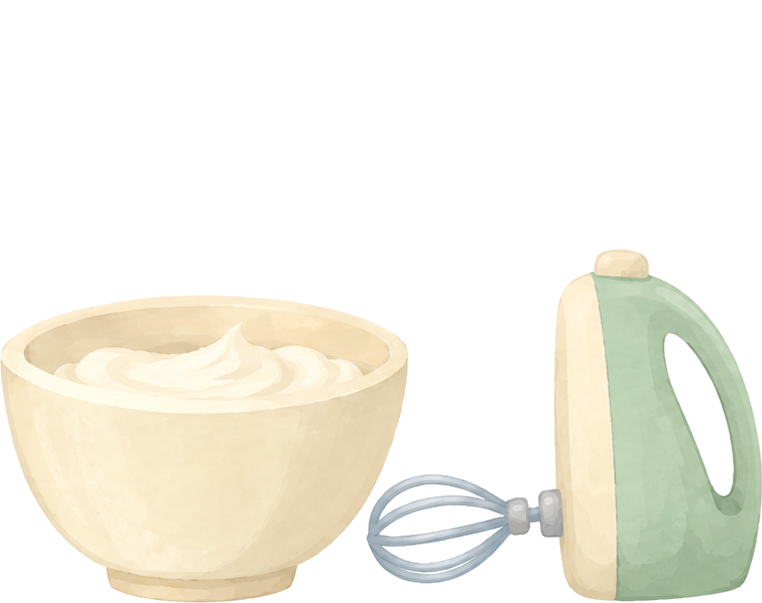
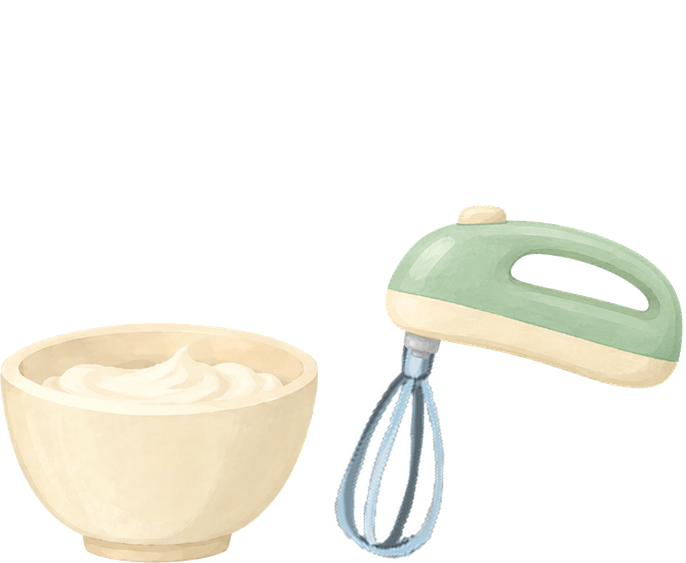
Tutorial pointer: Gemini's hand cookie with the gold glaze glow (owner's pick 9, 21 Nov); gift card words by the owner; lean handheld mixer with the kitchen's whisk as its blade; thinking dots sized and centred from the bubble's inside; report

diff --git a/Docs/tools/report_page/index.html b/Docs/tools/report_page/index.html
@@ -74,13 +74,13 @@ h3 small{font-weight:600;color:var(--soft);font-size:13px;margin-left:6px}
 <h2 id="next"><span class="n">1</span>Next</h2>
 <div class="grid">
 <div class="who p1"><h3>You</h3>
-<p><b>Pick a pointer cookie</b> (Current, round 2) and <b>the chapter 2 ideas you want</b> (Q&amp;A).</p>
-<p><b>Look at</b> the gift's new order and the handheld mixer (Current). The gift card's words are mine; change them if you like.</p>
-<p><b>Test build:</b> Xcode still has no Apple account sign-in. Open <b>Xcode, Settings, Accounts</b>, sign in (I cannot type your password) and tell me; I then build with today's changes and upload.</p>
+<p><b>Test build 2026.11.21 (0) is being made now.</b> If the upload is refused again, it needs your sign-in in Xcode (Settings, Accounts); I will say so here.</p>
+<p><b>Look at</b> the thinking dots and the mixer (Current); both are in the build as shown.</p>
+<p><b>Still open:</b> the chapter 2 ideas (Q&amp;A).</p>
 </div>
 <div class="who p2"><h3>Me</h3>
-<p>Done today: the chapter 2 gift, handheld mixer, tray shadow (approved, in), kitchen without pauses, faster blender, player analysis, the ad check for today's US player.</p>
-<p><b>Tomorrow (22 Nov):</b> Apple's sales for 21 Nov (a Remove Ads sale?), and whether that player came back.</p>
+<p>In the build today: chapter 2 gift, hand pointer with its glow, tray shadow, lean handheld mixer, kitchen without pauses, faster blender, smaller thinking dots.</p>
+<p><b>Tomorrow (22 Nov):</b> Apple's sales for 21 Nov (a Remove Ads sale?), and whether today's US player came back.</p>
 </div>
 </div>
 
@@ -113,14 +113,6 @@ h3 small{font-weight:600;color:var(--soft);font-size:13px;margin-left:6px}
 <li><b>Seen in today's numbers:</b> Unity counted 4 ads shown, the game logged none as finished. At least two were players who closed the game during the ad right after day 1.</li>
 </ul>
 <ul class="checks"><li><label><input type="checkbox" data-id="qa.skipcount.seen"> Seen</label></li></ul>
-</div>
-<div class="q"><h3>Does the time of my test play match? Where is today's data from, when App Store Connect has none yet? (21 Nov)</h3>
-<ul>
-<li><b>Yes, it matches.</b> Your TestFlight play is in the test data: today 12:09 to 12:16, days 13 and 14, one star each, then the shop. It is kept apart from the players and never counted.</li>
-<li><b>So the 11:29 to 12:01 play was not you,</b> and yes, it is the player I asked you about. It was <b>today, 21 Nov</b>. "2026.11.20" in that line is the game's version number (the release), not the date. A real new player in the US on the App Store copy: all 14 days in 32 minutes, 3 stars on every day, nearly everything bought. They are in the numbers now (Analysis).</li>
-<li><b>Where today's data comes from:</b> Unity Analytics, not App Store Connect. The game itself sends its events (tutorial steps, days, stars, purchases, ads) to Unity within about a minute. App Store copies go to "production", TestFlight and my editor to "development". Apple's own numbers (downloads) come a day later; they end on 20 Nov.</li>
-</ul>
-<ul class="checks"><li><label><input type="checkbox" data-id="qa.today.seen"> Seen</label></li></ul>
 </div>
 <div class="q"><h3>Chapter 2 is much harder: ways to tune it (21 Nov)</h3>
 <ul>
@@ -175,50 +167,46 @@ h3 small{font-weight:600;color:var(--soft);font-size:13px;margin-left:6px}
 <ul class="checks"><li><label><input type="checkbox" data-id="qa.ktimes2.seen"> Seen</label></li></ul>
 </div>
 <h2 id="current"><span class="n">3</span>Current</h2>
-<p class="sub" style="margin:0 0 8px">Made 21 November; not in a test build yet.</p>
+<p class="sub" style="margin:0 0 8px">Made 21 November; all of it is in the new test build.</p>
 <div class="card">
-<p style="margin-top:0"><b>Chapter 2's gift, in your order: the fourth flower flies to the customer.</b></p>
-<figure><img src="gift_flower.jpg" alt="Six views of the chapter 2 tutorial. The customer has ordered and three pink flowers stand over the bubble. The screen dims and a paper card titled A gift for you shows one big flower, the words One more flower of patience for every beach customer, and a Let's go cookie button. The card is gone and the flower arrives at the right end of the row. Four flowers over the bubble. The tutorial goes on with its captions, four flowers shown"><figcaption>Table, chapter 2 tutorial: three flowers, the gift card, the flower flying over, four flowers, the tutorial going on.</figcaption></figure>
+<p style="margin-top:0"><b>Thinking dots: smaller, and centred in every bubble.</b></p>
+<figure><img src="think_dots.jpg" alt="Four order bubbles while the customer thinks, two narrow ones and two large ones, each with three small brown dots in the middle of the bubble, about half as wide as the bubble's inside"><figcaption>Table, chapter 1: the dots in the narrow bubble (top) and in the large bubble (bottom).</figcaption></figure>
 <ul>
-<li>The tutorial starts as before. The customer walks up and orders with three flowers; a second later the game holds and the card comes up with the flower.</li>
-<li>On "Let's go" the card goes, the three flowers move over, and the gift flower flies onto the row with a pop. Then the tutorial continues.</li>
-<li>From then on every chapter 2 customer has four flowers, each as long as before: a third more waiting time than in chapter 1.</li>
+<li>The dots are now sized from the bubble itself: the row of three is about half as wide as the bubble's inside, in every bubble. In the large bubble they are a little smaller than before; tick if you want them bigger.</li>
+<li>They sit in the middle of the bubble's inside (before, in the middle of the foods to come, which is off-centre in some bubbles).</li>
 </ul>
 <ul class="checks">
-<li><label><input type="checkbox" data-id="cur.gift5.good"> Good</label></li>
-<li><label><input type="checkbox" data-id="cur.gift5.change"> Changes (I will say what)</label></li>
+<li><label><input type="checkbox" data-id="cur.dots2.good"> Good</label></li>
+<li><label><input type="checkbox" data-id="cur.dots2.bigger"> A little bigger</label></li>
+<li><label><input type="checkbox" data-id="cur.dots2.smaller"> A little smaller</label></li>
 </ul>
 </div>
 
 <div class="card">
-<p style="margin-top:0"><b>Tutorial pointer, round 2: six new cookies by Gemini.</b></p>
-<figure><img src="arrow_ideas.jpg" alt="Six views of the chapter 2 table with a cookie pointing down at the waffle machine, each with a gold glow. 6: a red arrow with a white piped outline. 7: a yellow arrow with a caramel outline. 8: a mint arrow with white dots. 9: a white gloved hand pointing down. 10: two orange chevrons. 11: a pink arrow with white stripes"><figcaption>Table, chapter 2 tutorial: pointer cookies 6 to 11, each with the gold glow.</figcaption></figure>
+<p style="margin-top:0"><b>Mixer: lean body, your own whisk as the blade.</b></p>
+<figure><img src="mixer_lean.jpg" alt="Top: the two mixer frames. At rest the bowl of cream with a slim green hand mixer standing beside it, leaning a little, the kitchen's blue whisk hanging from its front. Running: the mixer level above the bowl, the whisk in the cream. Bottom: the kitchen counter in the game with each frame at the counter's left end"><figcaption>Kitchen: the mixer's two frames, and each in the game (at rest; running).</figcaption></figure>
 <ul>
-<li>Drawn for this job in our cookie style, not a turned map arrow. The glow pulses and the cookie keeps its bounce.</li>
-<li>Red (6) stands out best on both cloth colours.</li>
+<li><b>Body</b> (ChatGPT): a slim curved body with a thin handle, shorter than the bowl is wide.</li>
+<li><b>Blade:</b> the kitchen's own whisk, its pixels only turned and made smaller; its handle sits up inside the body.</li>
+<li><b>At rest</b> it stands beside the bowl the same way up, leaning 12 degrees; <b>running</b> it is level over the bowl.</li>
+<li><b>In iCloud</b> ("FoodTruckCafe art"): mixer_bowl, mixer_machine (body alone), mixer_machine_with_whisk, mixer_original_whisk (the kitchen's whisk), plus the two game frames mixer_rest and mixer_running.</li>
 </ul>
 <ul class="checks">
-<li><label><input type="checkbox" data-id="cur.arrow2.6"> 6. Red arrow</label></li>
-<li><label><input type="checkbox" data-id="cur.arrow2.7"> 7. Yellow arrow</label></li>
-<li><label><input type="checkbox" data-id="cur.arrow2.8"> 8. Mint arrow with dots</label></li>
-<li><label><input type="checkbox" data-id="cur.arrow2.9"> 9. Pointing hand</label></li>
-<li><label><input type="checkbox" data-id="cur.arrow2.10"> 10. Orange chevrons</label></li>
-<li><label><input type="checkbox" data-id="cur.arrow2.11"> 11. Pink striped arrow</label></li>
-<li><label><input type="checkbox" data-id="cur.arrow2.other"> Something else (I will say what)</label></li>
+<li><label><input type="checkbox" data-id="cur.mixer4.good"> Good</label></li>
+<li><label><input type="checkbox" data-id="cur.mixer4.change"> Changes (I will say what)</label></li>
 </ul>
 </div>
 
 <div class="card">
-<p style="margin-top:0"><b>Kitchen: handheld mixer, no pauses, faster blender.</b></p>
-<figure><img src="mixer_handheld.jpg" alt="The kitchen counter twice. Left, at rest: the bowl of cream with a small green hand mixer parked beside it on the counter, its whisk pointing at the bowl. Right, running: the hand mixer level above the bowl, its whisk in the cream. The fruit board is beside it in both"><figcaption>Kitchen: the handheld mixer at rest on the counter, and running over the bowl.</figcaption></figure>
+<p style="margin-top:0"><b>Built from your picks: the hand pointer with its glaze glow; the gift card's new words.</b></p>
+<figure><img src="pointer_hand.jpg" alt="Three moments of the chapter 2 tutorial: the white hand cookie points down at the waffle machine with a gold glow round it, bouncing a little between the pictures"><figcaption>Table, chapter 2 tutorial: the hand pointer (three moments of its bounce).</figcaption></figure>
+<figure><img src="gift_card_text.jpg" alt="The gift card: A gift for you, one big pink flower, the words Extra patience flower for beach customers, and the Let's go cookie button"><figcaption>Table, chapter 2 tutorial: the gift card with your words.</figcaption></figure>
 <ul>
-<li><b>Mixer</b> (ChatGPT): no stand or foot. A small hand mixer with a slim handle. At rest it is parked on the counter beside the bowl; while it runs it is over the bowl with the whisk in the cream. Bowl and blade are the size they were. Both frames are in iCloud (mixer_rest, mixer_running).</li>
-<li><b>No pauses:</b> after the oven the mixer starts at once, then the fruit board, then the dessert flies to the table.</li>
-<li><b>Blender:</b> 3 s with four flavours, 1.8 s with two (was 5 s and 2.8 s).</li>
+<li><b>Pointer:</b> Gemini's hand cookie (drawn again large), a gold glow that beats, and a band of light that passes over the icing every second and a half. Every tutorial arrow is this hand now, the kitchen swipe hints too.</li>
 </ul>
 <ul class="checks">
-<li><label><input type="checkbox" data-id="cur.mixer3.good"> Good</label></li>
-<li><label><input type="checkbox" data-id="cur.mixer3.change"> Changes (I will say what)</label></li>
+<li><label><input type="checkbox" data-id="cur.hand.good"> Good</label></li>
+<li><label><input type="checkbox" data-id="cur.hand.change"> Changes (I will say what)</label></li>
 </ul>
 </div>
 
@@ -226,16 +214,17 @@ h3 small{font-weight:600;color:var(--soft);font-size:13px;margin-left:6px}
 <p class="sub" style="margin:0 0 8px">Next release: the kitchen remodel and the small fixes. Everything changed since release 2026.11.20:</p>
 <ul>
 <li><b>Kitchen flow:</b> choux and cake are made in steps. The oven bakes them onto the baking tray or the cake plate in the kitchen, the mixer adds the cream, the fruit board adds the fruit, then they fly to the table. The kitchen does every step by itself, with no pause.</li>
-<li><b>New kitchen pieces:</b> the baking tray (four choux, two by two, four stages, with a shadow), the cake plate's stages (empty, sponge, cream, finished), the handheld mixer with its bowl (at rest and running). All can be arranged; the tray starts on the kitchen table.</li>
+<li><b>New kitchen pieces:</b> the baking tray (four choux, two by two, four stages, with a shadow), the cake plate's stages (empty, sponge, cream, finished), the lean handheld mixer with its bowl and the kitchen's whisk as its blade (at rest and running). All can be arranged; the tray starts on the kitchen table.</li>
 <li><b>Kitchen times:</b> bread bakes 5 s; choux, cake and cookies 3 s. The ice cream blender runs 3 s (1.8 s with two flavours). Pausing the game stops the kitchen too.</li>
 <li><b>Chapter 2 opens after day 9</b> of chapter 1 (the player chooses when to go). On the map day 9 is a big glowing star with a dotted path to the arrow; finishing it gives a star and the truck drives to chapter 2.</li>
 <li><b>Chapter 2 gift:</b> a fourth patience flower for every chapter 2 customer; in the tutorial a reward card shows it and it flies to the first customer.</li>
 <li><b>Map:</b> today's day card opens by itself.</li>
-<li><b>Customers:</b> they think for 2 s (three dots in the bubble) before the order shows.</li>
+<li><b>Customers:</b> they think for 2 s (three dots in the middle of the bubble) before the order shows.</li>
+<li><b>Tutorial:</b> the pointer is a hand cookie with a gold glaze glow.</li>
 <li><b>Shop:</b> NEW on a tab that holds something new; locked items stay visible with a padlock (cookies and coconut until chapter 2, the star Yoga until she is hired); two new locked star cards, Chef (20) and Dining table (25); cards aligned; the extra cup reads "One more plate for brewed coffee."</li>
 <li><b>Look:</b> a taller hen on the table; the tutorial's "Ready to go?" card on paper with cookie buttons.</li>
 </ul>
-<p style="margin:8px 0 4px"><b>Not in yet:</b> the tutorial pointer cookie and the chapter 2 tuning (your picks); the cutting animation (the board hops for now); a sound for the day 9 scene.</p>
+<p style="margin:8px 0 4px"><b>Not in yet:</b> the chapter 2 tuning (your picks); the cutting animation (the board hops for now); a sound for the day 9 scene.</p>
 
 <h2 id="backlog"><span class="n">5</span>Backlog</h2>
 <p class="sub" style="margin:0 0 8px">Nothing open.</p>

diff --git a/Assets/Scripts/Tutorial/TutorialDirector.cs b/Assets/Scripts/Tutorial/TutorialDirector.cs
@@ -161,6 +161,7 @@ public class TutorialDirector : MonoBehaviour
     private RectTransform hand;
     private Vector2 handBase;
     private Sprite arrowSprite;
+    private CanvasGroup handGroup;
     private readonly List<RectTransform> extraArrows = new();
     private readonly List<Vector2> extraArrowBases = new();
     private Coroutine extraBob;
@@ -422,7 +423,8 @@ public class TutorialDirector : MonoBehaviour
             var u = t % 1f;
             var x = Mathf.Lerp(-reach, reach, Mathf.SmoothStep(0f, 1f, Mathf.Clamp01(u / 0.75f))) * direction;
             hand.anchoredPosition = new Vector2(x, y);
-            if (img != null) { var c = img.color; c.a = u < 0.1f ? u / 0.1f : u > 0.75f ? Mathf.Clamp01(1f - (u - 0.75f) / 0.2f) : 1f; img.color = c; }
+            var fade = u < 0.1f ? u / 0.1f : u > 0.75f ? Mathf.Clamp01(1f - (u - 0.75f) / 0.2f) : 1f;
+            if (handGroup != null) handGroup.alpha = fade; else if (img != null) { var c = img.color; c.a = fade; img.color = c; }
             yield return null;
         }
     }
@@ -487,7 +489,7 @@ public class TutorialDirector : MonoBehaviour
         title.alignment = TextAlignmentOptions.Center; title.text = "A GIFT FOR YOU!";
         var line = NewText("Line", panel.rectTransform, handFont != null ? handFont : titleFont, 37f, soft);
         line.rectTransform.anchoredPosition = new Vector2(0f, -66f); line.rectTransform.sizeDelta = new Vector2(640f, 110f);
-        line.alignment = TextAlignmentOptions.Center; line.text = "One more flower of patience\nfor every beach customer"; line.alpha = 0f;
+        line.alignment = TextAlignmentOptions.Center; line.text = "Extra patience flower\nfor beach customers";   // the owner's words (21 November 2026) line.alpha = 0f;
         var go = NewImage("LetsGo", panel.rectTransform, Color.white); go.sprite = letsGo;
         go.rectTransform.anchoredPosition = new Vector2(0f, -206f); go.rectTransform.sizeDelta = new Vector2(380f, 380f * letsGo.rect.height / letsGo.rect.width);
         var done = false; go.gameObject.AddComponent<Button>().onClick.AddListener(() => done = true);
@@ -819,6 +821,7 @@ public class TutorialDirector : MonoBehaviour
         img.sprite = arrowSprite;
         img.preserveAspect = true;
         img.raycastTarget = false;
+        GlowFx.Shine(img);
         return rt;
     }
 
@@ -868,6 +871,7 @@ public class TutorialDirector : MonoBehaviour
         hand.localRotation = Quaternion.identity; hand.localScale = Vector3.one;   // a swipe hint turns, grows and fades it
         var handImage = hand.GetComponent<Image>();
         if (handImage != null) { var c = handImage.color; c.a = 1f; handImage.color = c; }
+        if (handGroup != null) handGroup.alpha = 1f;
         hand.gameObject.SetActive(false);
     }
 
@@ -878,7 +882,10 @@ public class TutorialDirector : MonoBehaviour
     private void BuildUi()
     {
         var font = Resources.Load<TMP_FontAsset>("Fonts & Materials/beachday SDF");
-        var handSprite = Resources.Load<Sprite>("Tutorial/arrow");
+        // The pointer is a hand cookie with the gold glow and the glaze's shine passing over it (owner's pick 9 of
+        // 21 November 2026, Store/ui/tutorial_arrow_2026-11-21: "use 9 pointing hand, add a glazing glow on it"); its
+        // fingertip is the picture's bottom centre, as the yellow arrow's tip was. Without the picture: the arrow.
+        var handSprite = Resources.Load<Sprite>("Tutorial/pointer_hand"); if (handSprite == null) handSprite = Resources.Load<Sprite>("Tutorial/arrow");
         arrowSprite = handSprite;
 
         var go = new GameObject("TutorialCanvas", typeof(RectTransform), typeof(Canvas), typeof(CanvasScaler), typeof(GraphicRaycaster));
@@ -925,10 +932,12 @@ public class TutorialDirector : MonoBehaviour
         hand = handImage.rectTransform;
         hand.anchorMin = hand.anchorMax = new Vector2(0.5f, 0.5f);
         hand.pivot = new Vector2(0.5f, 0f);
-        hand.sizeDelta = new Vector2(150f, 150f);
+        hand.sizeDelta = new Vector2(170f, 170f);
         handImage.sprite = handSprite;
         handImage.preserveAspect = true;
         handImage.raycastTarget = false;
+        handGroup = hand.gameObject.AddComponent<CanvasGroup>(); handGroup.blocksRaycasts = false; handGroup.interactable = false;   // fades the glow with the hand
+        GlowFx.Shine(handImage);
         hand.gameObject.SetActive(false);
 
         // End card

diff --git a/Assets/Scripts/ItemsAndOrders/OrderSystem.cs b/Assets/Scripts/ItemsAndOrders/OrderSystem.cs
@@ -410,8 +410,23 @@ public class OrderSystem : MonoBehaviour
         }
         if (n == 0 || icon == null || icon.sprite == null || s.container == null) return;
         var wide = icon.sprite.bounds.size.x * Mathf.Abs(icon.transform.lossyScale.x) / Mathf.Max(0.0001f, Mathf.Abs(s.container.lossyScale.x));   // one food picture, in the container's units
-        var size = wide * 0.42f;
-        var root = new GameObject("ThinkDots"); root.transform.SetParent(s.container, false); root.transform.localPosition = mid / n;
+        var size = wide * 0.42f; var at = mid / n;
+        // Sized and centred from the bubble itself (owner, 21 November 2026: "the dots looks fine on bigger bubble, but
+        // on small bubble it looks too big. resize and center the dots in bubbles"): the middle of the bubble's inside
+        // (the pictures hold a tail and a shadow too, so not the picture's middle), the three dots about half the
+        // inside's width, and never bigger than they were in the widest bubble.
+        var bubble = s.bubble1 != null && s.bubble1.activeSelf ? s.bubble1 : s.bubble2 != null && s.bubble2.activeSelf ? s.bubble2 : s.bubble4 != null && s.bubble4.activeSelf ? s.bubble4 : null;
+        var body = bubble != null ? bubble.GetComponent<SpriteRenderer>() : null;
+        if (body != null && body.sprite != null && BubbleInside(body.sprite.name, out var centre, out var inner))
+        {
+            // the inside's width and height on the screen: the bubble pictures are turned and stretched in the scene
+            Vector3 ax = body.transform.TransformVector(new Vector3(inner.x, 0f, 0f)), ay = body.transform.TransformVector(new Vector3(0f, inner.y, 0f));
+            float across = Mathf.Abs(ax.x) + Mathf.Abs(ay.x), up = Mathf.Abs(ax.y) + Mathf.Abs(ay.y);   // world units
+            var world = Mathf.Min(across * 0.125f, up * 0.22f);                                       // the row of three is 4.1 dots wide: about half the inside
+            size = world / Mathf.Max(0.0001f, Mathf.Abs(s.container.lossyScale.x));
+            at = s.container.InverseTransformPoint(body.transform.TransformPoint(centre)) - new Vector3(0f, size * 0.25f, 0f);   // the hop goes up from here
+        }
+        var root = new GameObject("ThinkDots"); root.transform.SetParent(s.container, false); root.transform.localPosition = at;
         for (var i = 0; i < 3; i++)
         {
             var d = new GameObject("Dot" + i); d.transform.SetParent(root.transform, false);
@@ -420,6 +435,19 @@ public class OrderSystem : MonoBehaviour
             sr.sortingLayerID = icon.sortingLayerID; sr.sortingOrder = icon.sortingOrder;
         }
         order.thinkDots = root;
+    }
+
+    /// The inside of each bubble picture (Assets/Images, 100 pixels per unit; measured inside the black line): its
+    /// middle from the picture's middle and its size, in the sprite's own units
+    private static bool BubbleInside(string sprite, out Vector3 centre, out Vector2 size)
+    {
+        switch (sprite)
+        {
+            case "1bubble": centre = new Vector3(0.015f, 0.425f, 0f); size = new Vector2(3.29f, 3.05f); return true;
+            case "bubble2": centre = new Vector3(-0.08f, 0.535f, 0f); size = new Vector2(2.18f, 3.57f); return true;
+            case "bubble3": centre = new Vector3(-0.005f, 0.345f, 0f); size = new Vector2(1.79f, 5.19f); return true;
+        }
+        centre = Vector3.zero; size = Vector2.zero; return false;
     }
 
     private void Think(ActiveOrder o)

diff --git a/Assets/Scripts/Kitchen/KitchenArrange.cs b/Assets/Scripts/Kitchen/KitchenArrange.cs
@@ -53,7 +53,7 @@ public static class KitchenArrange
         new Def { name = "chouxplate", foot = new Vector2(0.2861f, 0.2906f), box = new Vector4(0.04f, 0.20f, 0.96f, 0.98f), fit = new Vector4(0.02f, 0.02f, 0.98f, 0.98f), size = new Vector2(205f, 149f) },   // the baking tray, squarer, choux 2 x 2, with the fruit board's hard shadow (464 x 338; owner, 20-21 November 2026)
         // the mixer set on its stand (20 November 2026), made by this file when choux or cake is on the menu; it takes the whisk's place then.
         // Its box is its foot. On the table at a free place (FirstCheck); this foot, the opening under the counter's right place, is the fallback
-        new Def { name = "mixer", foot = new Vector2(0.40f, 0.2906f), box = new Vector4(0.02f, 0.76f, 0.98f, 0.99f), fit = new Vector4(0.02f, 0.02f, 0.98f, 0.99f), size = new Vector2(198f, 157f) },   // 21 November 2026: the handheld mixer, no stand (762 x 603): at rest it lies parked beside the bowl, running it is over the bowl; bowl rim 106 units as before
+        new Def { name = "mixer", foot = new Vector2(0.40f, 0.2906f), box = new Vector4(0.02f, 0.72f, 0.98f, 0.99f), fit = new Vector4(0.02f, 0.02f, 0.98f, 0.99f), size = new Vector2(229f, 188f) },   // 21 November 2026: the lean handheld mixer with the kitchen's own whisk as its blade (686 x 563, compose_lean.py): at rest it stands beside the bowl, leaning; running it is over the bowl; bowl rim 106 units as before
         new Def { name = "juice",    foot = new Vector2(0.1662f, 0.1469f),box = new Vector4(0.15f, 0.30f, 0.85f, 0.98f),   fit = new Vector4(0.13f, 0.07f, 0.87f, 0.98f) },
     };
 
